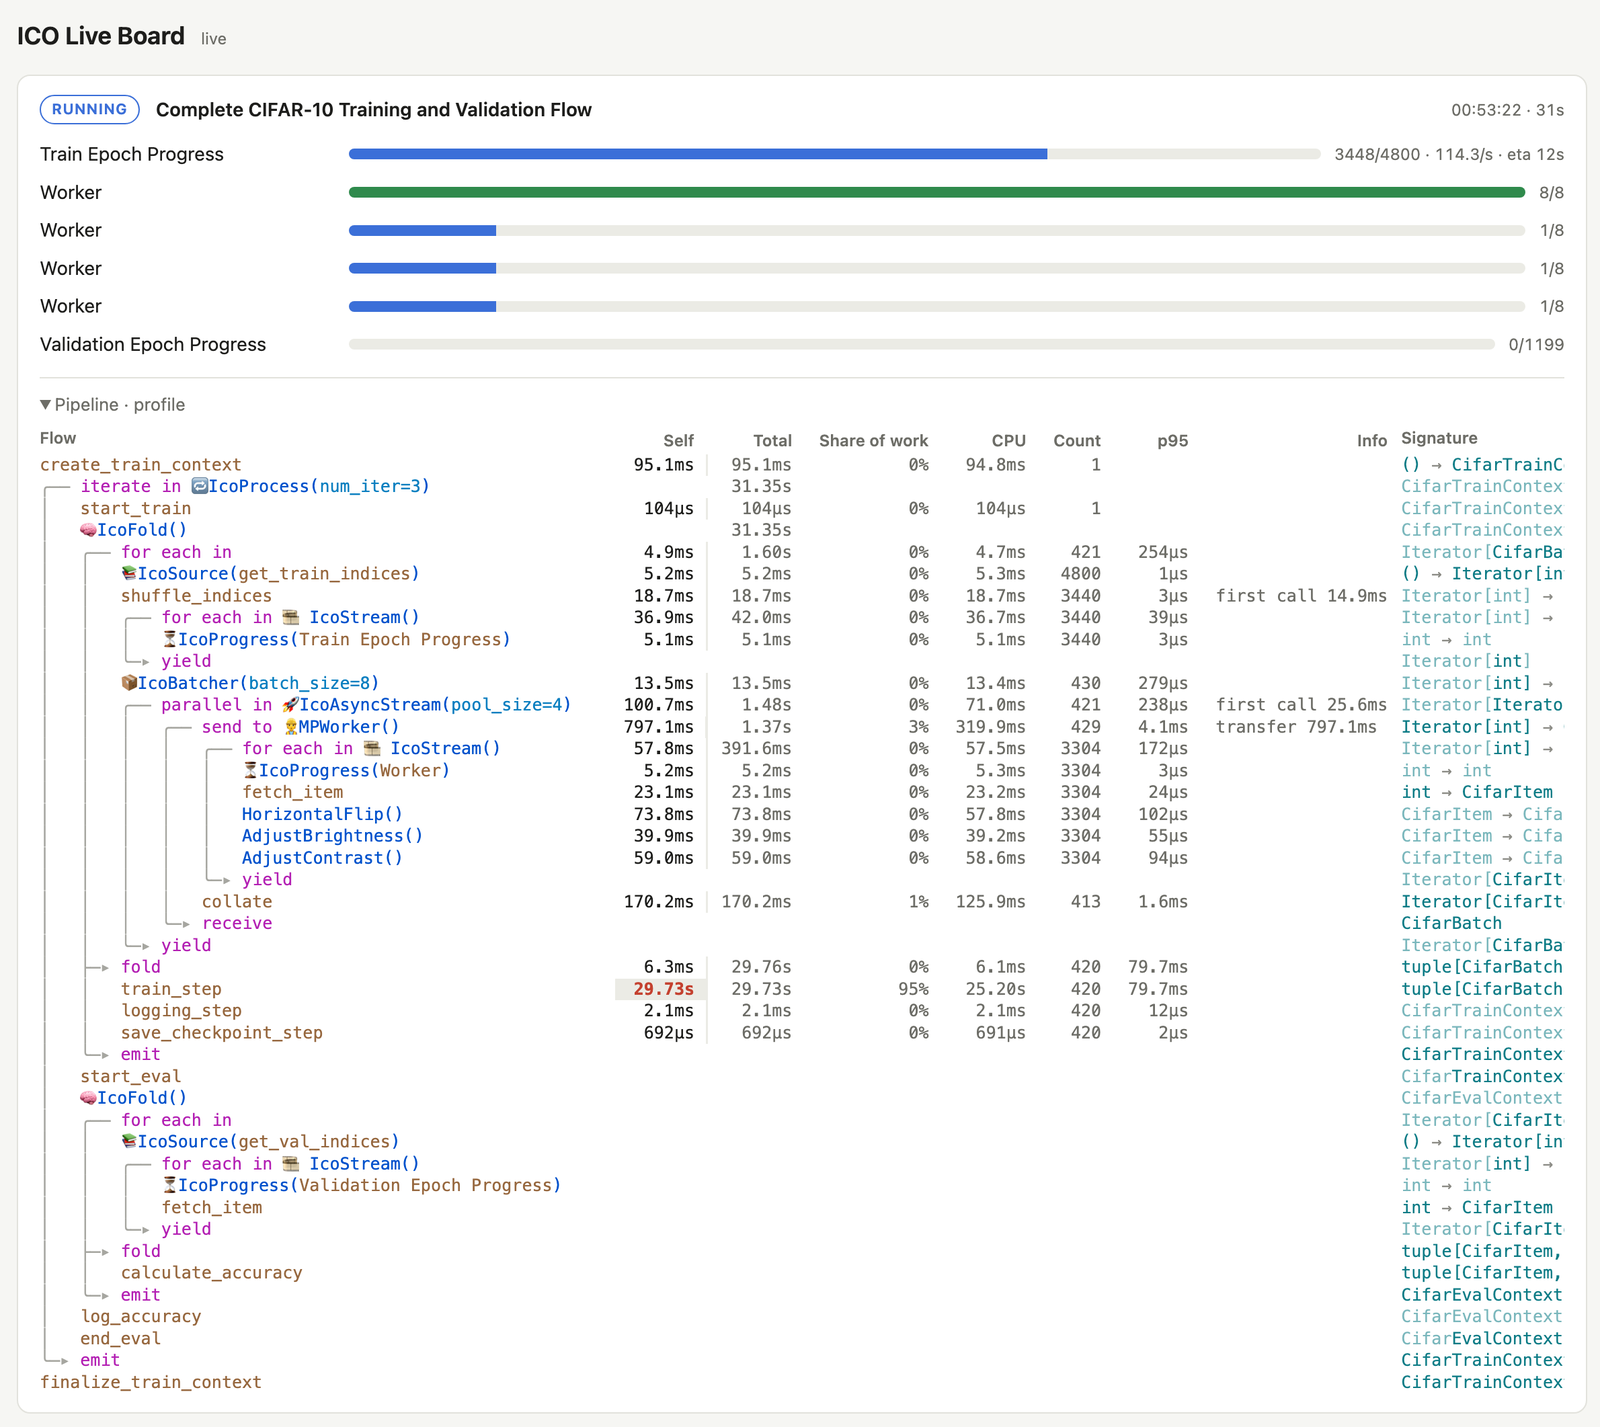
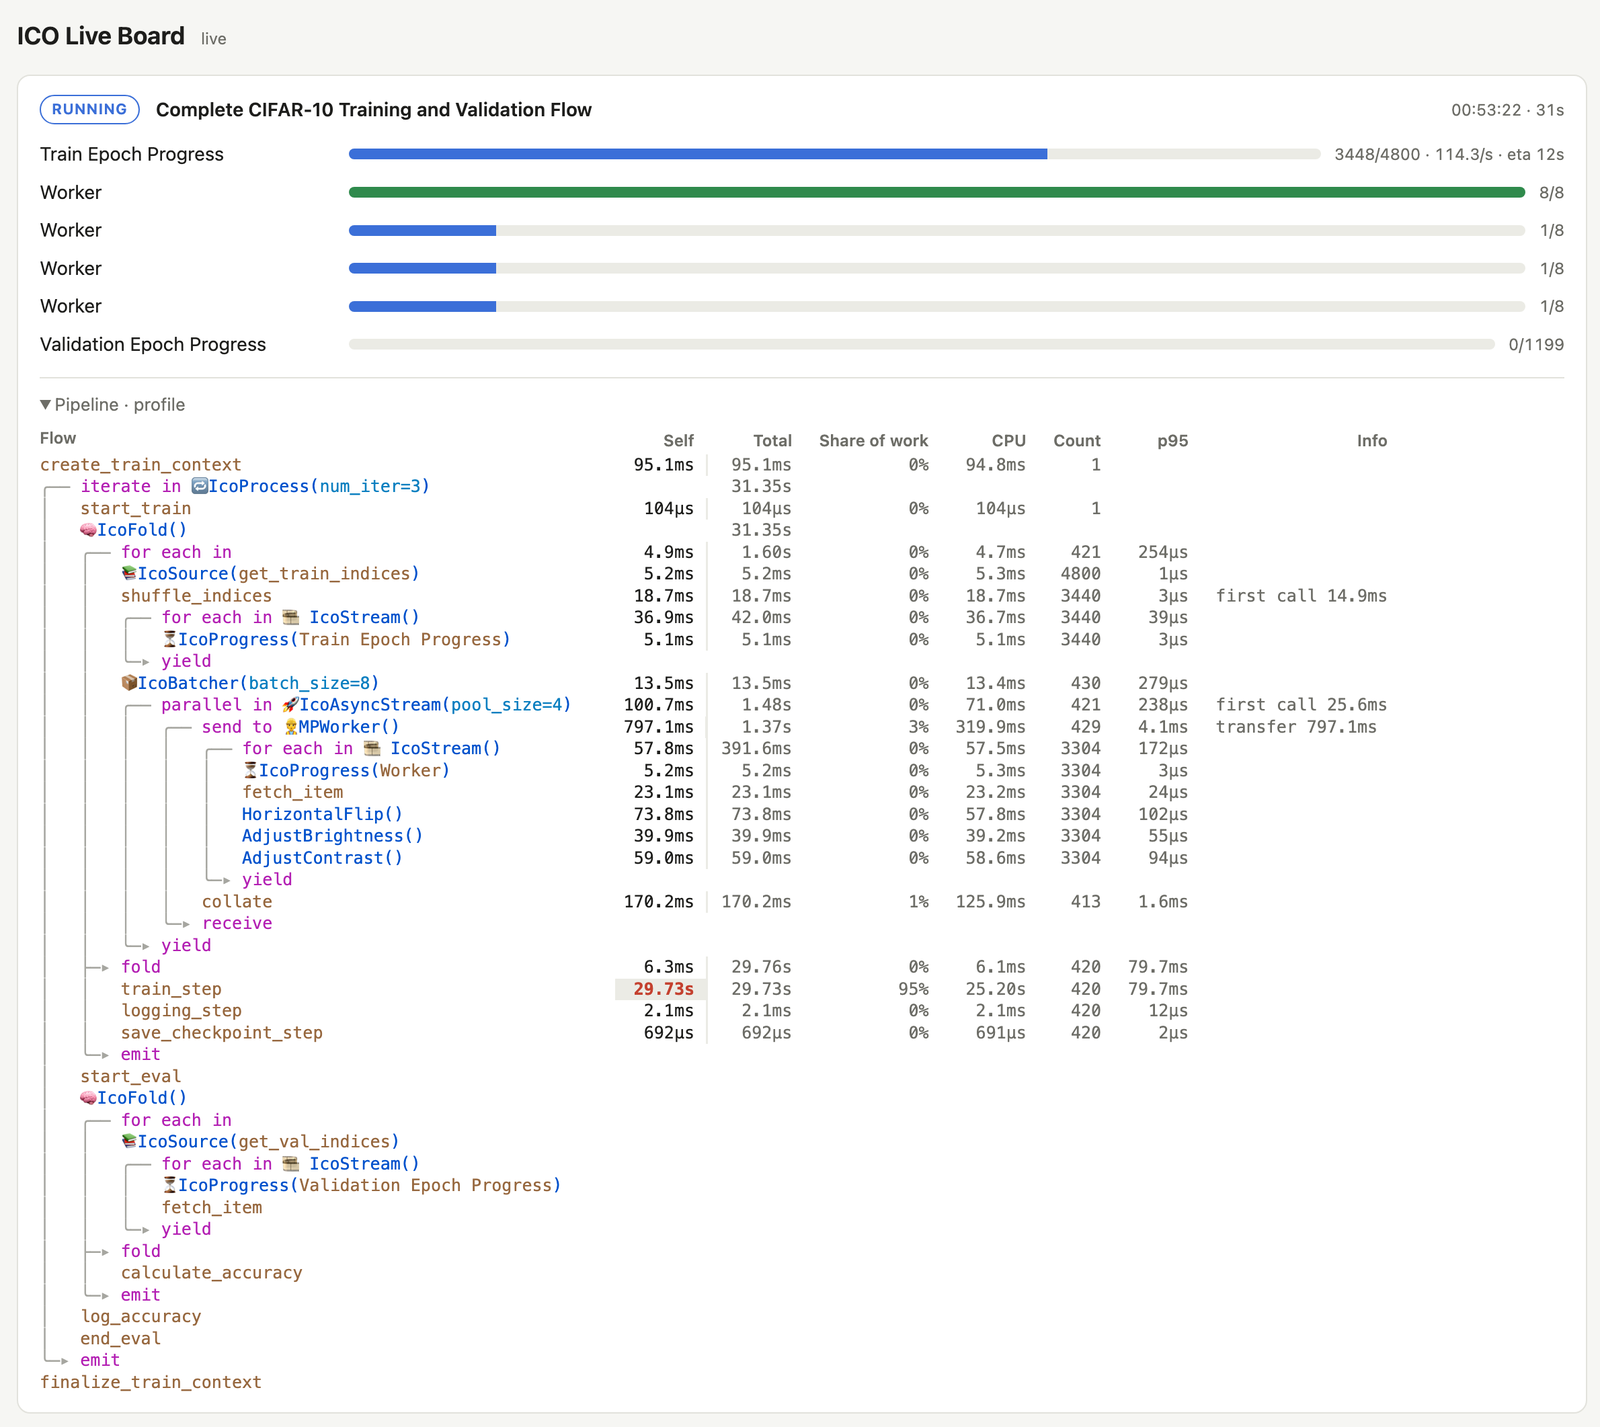
README: the Live Board pictures without the Signature column

Changed region(s): [[0.875, 0.3083, 0.9688, 0.9867]]

diff --git a/docs/images/README.md b/docs/images/README.md
@@ -22,3 +22,6 @@
   For the GIF, capture a frame every second or two for ~30 s at
   `--window-size=1500,1050`, crop to the run's progress and training fold and
   join the frames (e.g. Pillow, 500 ms each, 64 colors).
+
+  In both, the Signature column of the table is painted over with the card's
+  background (it is noise in a picture of the profile).
